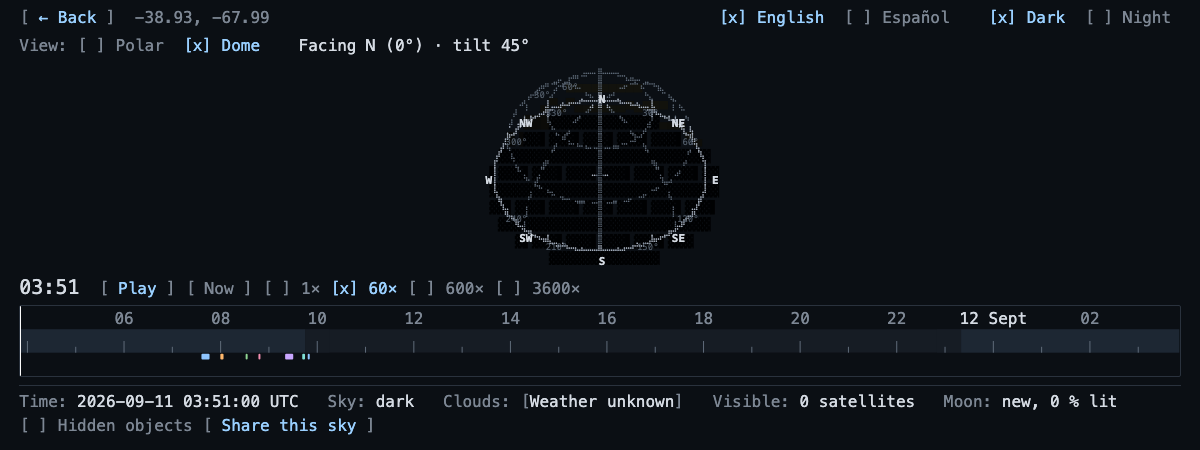
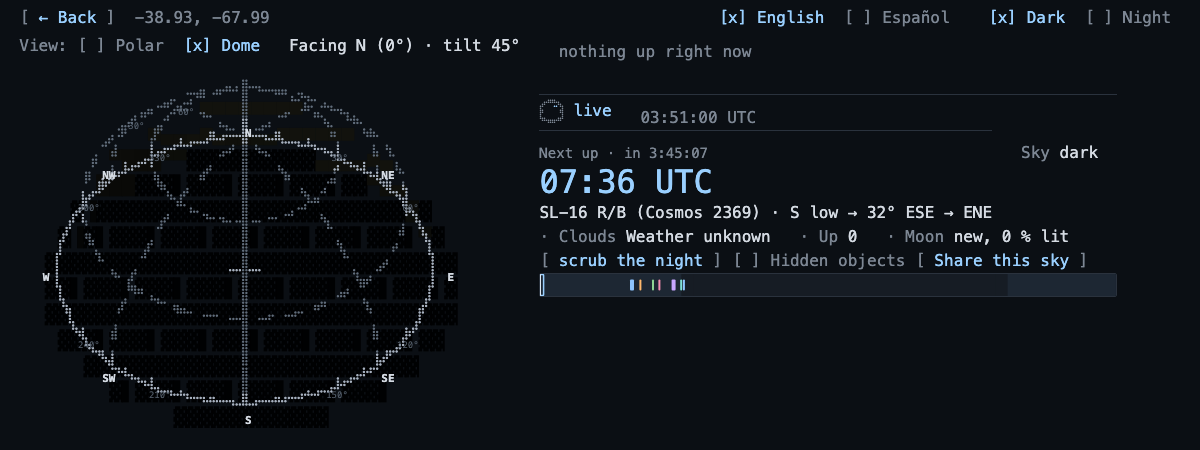
R78: captures of both states at the two short shapes; decisions D-481..D-486; the task checked off

diff --git a/PLAN.md b/PLAN.md
@@ -760,6 +760,15 @@ SPEC v2.0.2 rewrote the home to board 1B after R76 had shipped the cold open, th
 - **D-479 — The headline is the home's block, without its link, set smaller on a phone.** (FR-WATCH-2, V20-18; a `ui` crossing.) `NextEventBlock` gains `liveLink` (default `true`). The live page passes `false`, because the block's `[ Open the live sky ]` would point at the page it stands on. It is fed the live page's passes (the stored run, the coming 24 h, so its "no pass" line says 24 h). On compact, `Live.module.css` takes off the block's rule and top padding and sets its clock time at the readout's heading size on one text row. The block is three lines, 68 px. On wide it is the home's block unchanged. The Spanish state words are `en vivo / fijado`, and the actions are `fijar` (compact), `recorrer la noche` (wide) and `ir al vivo`: `[ ir al vivo ] [ ] Ocultos Compartir` is 36 cells, where `volver al vivo` was 40. Where the overview moves from the rail into the scrub block (wide), it takes back the keyboard focus it had, so a key that enters scrubbing is not the last key it hears.
 - **D-480 — The 390 × 667 watching box is held as measured: 330 px.** (FR-WATCH-5, FR-WATCH-9 d, V20-13, OQ-27.) With the list closed and the view control's row where FR-LIVE-7 has it, the rows under the box are 169 px (FR-WATCH-5 counts 168). The rows above it are the top row (24), the headline (68) and the view control (48), which leaves the box 330 px against FR-COMP-5's floor of 374. OQ-27's 367 did not count the headline's three lines. Without the view row the box would be about 378. The task's "over 374" cannot hold with the row where V20-13 leaves it. OQ-27's resolution is to assert the measurement, so `live-compact.spec.ts` holds 330, and the choice (the view row, or a shorter headline on a phone) is the owner's. Scrubbing at 667 is held to R71's 198.
 
+**R78's block** (§16.16 reserves D-481..D-486; what it spent):
+
+- **D-481 — The number `scrubPlacement` reads is the frame's space for the box with nothing under it, with the fold taken back out.** (FR-WATCH-6, D-448.) D-448 says "the height the frame has measured". The box's own height cannot be it: it is smaller while scrubbing (the block is under it), so the answer would differ between the states, and at 964 × 700 it is width-bound and says nothing about height. So `ChartFrame` reports `onBoxSpace`: its height less its controls row and the gap, which is `fitBox`'s height input before the stripe row and is the same in both states. The fold changes that number too — the control rows at one text row give the box 46 px — so a rule that read it raw would fold, measure the taller box, unfold and fold again. `Live.tsx` stores it through `unfoldedBoxHeightPx` with the fold the measured layout was drawn with (`LIVE_FOLD_GIVES_PX`), so the decision does not move on the fold. `shapes.spec.ts` drags a 1200 px window a pixel at a time through the threshold in both states and both languages: the answer turns once, at the table's own pixel (602 px), and the page settles at every height.
+- **D-482 — The table counts the time row as it stands at the block's 44-cell floor, in Spanish.** (FR-SHP-3, D-448, re-deriving D-414.) `LIVE_KEPT_ROWS_PX` is per state: watching `[48, 48]` (the top row and the controls row; nothing is under the box), scrubbing those and the block's four rows. The first cut counted the time row as one row of tap targets, 48 px, and the sweep failed it: a box near its floor is some 230 px wide, so wherever the table decides anything the block is at its 44-cell minimum, where the held instant and the six playback controls wrap — 74 px in English, 122 px in Spanish (measured at 1200 × 560). The table takes 122 (`LIVE_TIME_ROW_FLOOR_PX`), so the block costs 290 px and the overlay starts at a 602 px viewport: a little earlier than English needs and exactly where Spanish does. The strip's line and the actions row, which D-414 over-counted, are in neither state's list.
+- **D-483 — The fold is one decision with the overlay, and its order is `controls`, then `actions`.** (FR-SHP-3 as amended v2.0, FR-WATCH-6.) The box must be one height in both states on a short wide window, and folding the control rows changes the box, so the fold cannot read the state: `controls` folds exactly where `scrubPlacement` answers `overlay`, watching or scrubbing. `actions` folds a row of tap targets under that (a 554 px viewport), which is every short-wide row of the matrix. `overview` is out of the order — it is the rail's at these heights and FR-WATCH-6 says it does not fold. `foldRows(boxHeightPx, rows)` takes the state's inventory and names a fold only where every row it re-cuts is rendered (`LIVE_FOLD_NEEDS`, D-447); `lib` may not import `ui`, so the rows are an argument and `liveRows.test.ts` holds the two together. In the folded rail the overview is ordered last, so the actions still ride on the conditions line.
+- **D-484 — The bar and the measurement reach the frame by a context, not through the views.** (D-449.) `ChartFrame` has the `bottomOverlay` and `onBoxSpace` props D-449 asks for. `Live.tsx` cannot pass them: the frame is rendered by the view (`SkyDome`, `SkyPolar`, `SkyWindow`) or by `SkyChart`'s two fallbacks, and threading two props through five `chart` files is a larger crossing than the one slot D-449 records. So `ChartFrame.tsx` also exports `ChartFrameSlots`, a context carrying the same two values, and the frame reads the prop first and the context second. The crossing stays inside the one named file. The bar is a child of `chart-box`, absolutely placed on its bottom edge, at most half its height and scrolling inside past that, with half a row of padding so the one-row controls keep their 48 px hit boxes (D-246).
+- **D-485 — The landscape phone has a hook, and its rail has a head.** (FR-WATCH-5, D-173.) D-173 had no hook because nothing in React changed between portrait and landscape. Now something does: FR-WATCH-5 puts the indicator and the clock in the rail, so `usePageShape` asks `LANDSCAPE_PHONE_QUERY` (`lib/layout.ts`), and `tests/styles/liveShape.test.ts` holds the stylesheet's media query to the same string. At this shape the page renders the top row without the indicator, the dome, and a rail whose head is the indicator with the clock — or with `[ back to live ]` while scrubbing, so the way out never scrolls away — then the headline, the conditions, the overview, the scrub rows and the actions. The grid is two areas under the top row (`dome side`), so the dome's column is one track in both states. The rail's rows do not shrink (`flex-shrink: 0`): a squeezed conditions line lost its clock's descenders at 844 × 390 with touch, and the rail scrolls instead (D-119).
+- **D-486 — Wrapped actions under the fold stand a row apart.** (FR-X-5, D-246.) A folded control is one text row with a 48 px hit box. On two wrapped lines a row apart the lower control's hit box lay over the upper one's text and took its taps: at 1200 × 450 in Spanish, `[ Compartir este cielo ]` over `[ recorrer la noche ]`, found when the capture run could not press `[ scrub ]`. The folded actions get `row-gap: var(--row)`; on one line, as in English, it costs nothing.
+
 ---
 
 ### 2.33 v2.0.3 decisions (2026-09-19)

diff --git a/TASKS.md b/TASKS.md
@@ -1908,7 +1908,7 @@ Decision blocks (§16.2), reserved before wave 1: **R74 D-454..D-460, R75 D-461.
     - The owner's gate: a first visit on a phone from a clean browser, through the three steps, and a reload.
   - **Note (R82):** done as written, with D-521..D-525 for what the entry left open; one line outside the lane — `SkyWindow.tsx` passes the observer's zone to `NextEventBlock`, which `main`'s typecheck needed after R79 and R81 merged.
 
-- [ ] **R78 — The two short shapes: the landscape phone's rail and the short wide window's overlay**
+- [x] **R78 — The two short shapes: the landscape phone's rail and the short wide window's overlay** — done as written, with three differences recorded in PLAN D-481..D-486: the table counts the time row at the block's 44-cell floor in Spanish, so the overlay starts at a 602 px viewport (D-482); the bar and the measurement reach `ChartFrame` by a context exported from that file rather than through the five view files (D-484); and at 1200 × 450 the parent's failure is the box moving (376 px watching, 218 scrubbing), not the box under its floor, which on the parent happens at 964 × 420.
   - **Lane:** live
   - **Crossings (§16.16):** `skychart/ChartFrame.tsx` is `chart`'s (D-449) and `src/lib/layout.ts` is `ui`'s (D-448); both are named as this task's shared files.
   - **Model:** fable
